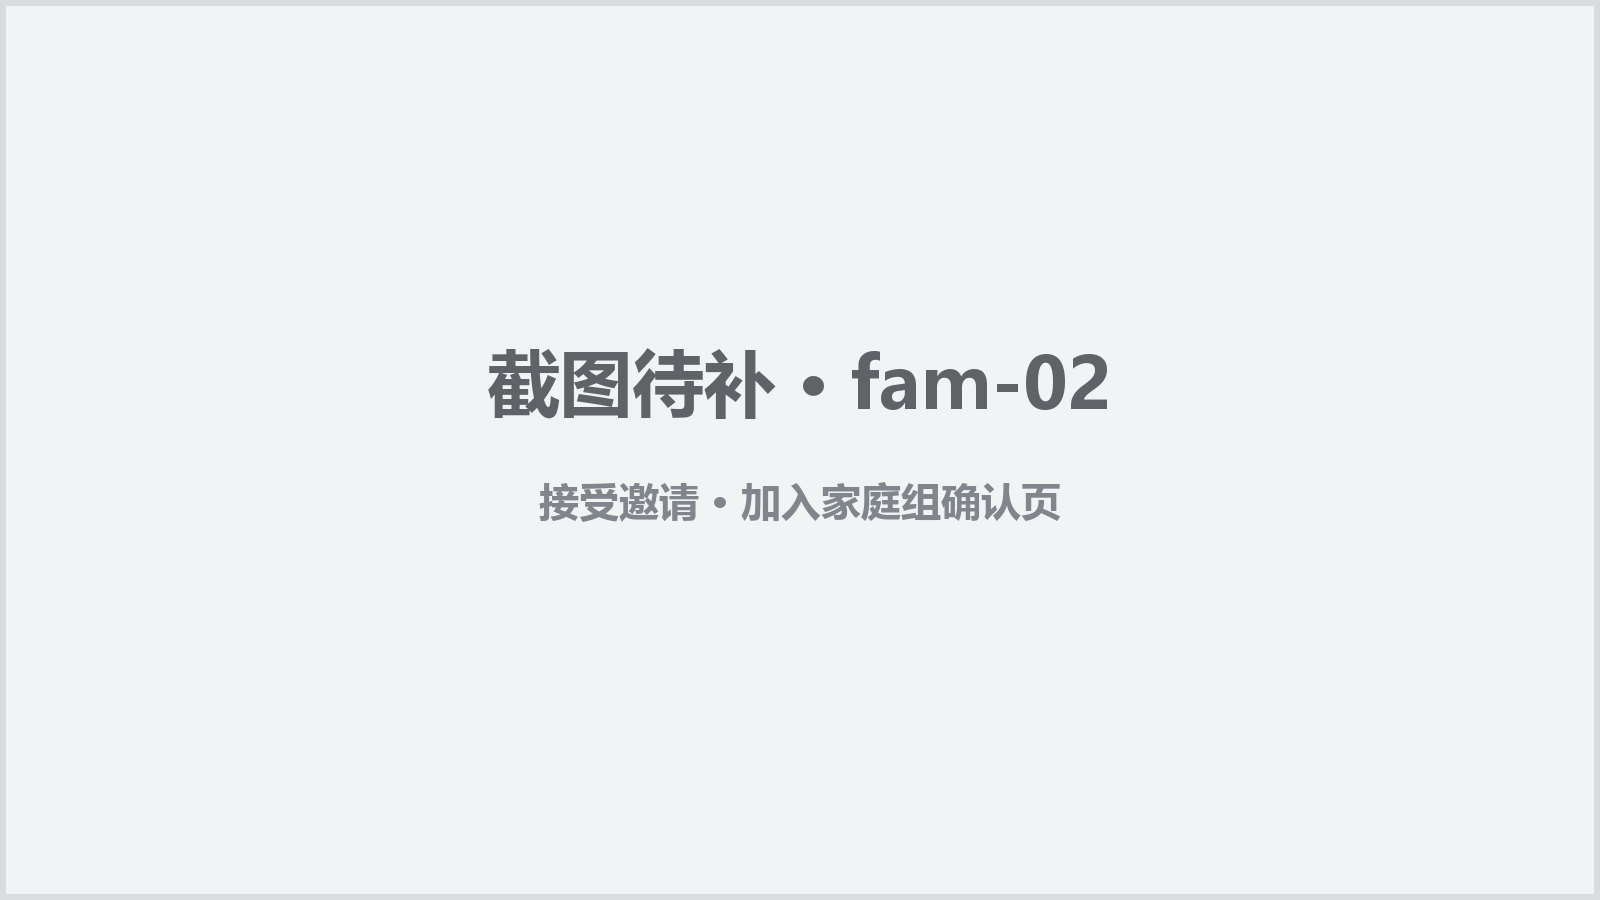
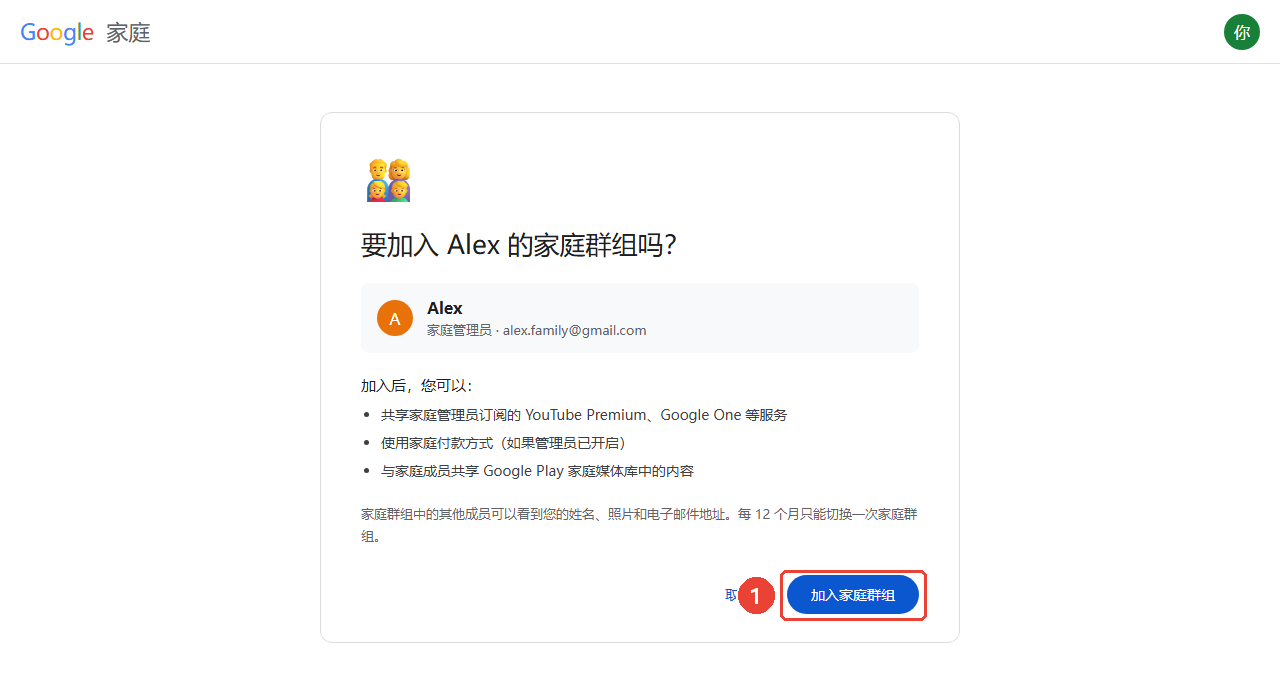
第 4 节和准备工作配上示意图（HTML 渲染）

diff --git a/scripts/mockups/fam-01.html b/scripts/mockups/fam-01.html
@@ -1,0 +1,43 @@
+<!doctype html>
+<html lang="zh-CN"><head><meta charset="utf-8"><link rel="stylesheet" href="base.css">
+<style>
+body { background: #f6f8fc; }
+.bar { background: #f6f8fc; border: none; }
+.search { width: 720px; height: 46px; border-radius: 24px; background: #e9eef6; margin-left: 90px; display: flex; align-items: center; padding: 0 18px; color: #5f6368; font-size: 15px; }
+.side { position: absolute; top: 64px; left: 0; width: 240px; padding: 8px 12px; }
+.compose { display: inline-block; background: #c2e7ff; padding: 18px 26px; border-radius: 16px; font-size: 14px; font-weight: 500; margin: 0 0 14px 4px; }
+.nav { padding: 6px 16px 6px 26px; border-radius: 0 16px 16px 0; font-size: 14px; height: 32px; line-height: 20px; }
+.nav.on { background: #d3e3fd; font-weight: 700; border-radius: 16px; }
+.main { position: absolute; top: 64px; left: 252px; right: 16px; bottom: 16px; background: #fff; border-radius: 16px; padding: 22px 30px; }
+.subject { font-size: 22px; font-weight: 400; margin: 6px 0 22px 50px; }
+.from { display: flex; gap: 12px; align-items: center; margin-bottom: 26px; }
+.from small { color: #5f6368; font-size: 12px; }
+.card { width: 560px; margin-left: 50px; border: 1px solid #dadce0; border-radius: 8px; padding: 36px 40px; text-align: center; }
+.card .logo { justify-content: center; margin-bottom: 26px; font-size: 24px; }
+.card h2 { font-size: 22px; font-weight: 400; margin: 18px 0 12px; }
+.card p { font-size: 14px; line-height: 1.7; color: #3c4043; }
+.card .btn { margin: 26px 0 18px; padding: 11px 34px; border-radius: 4px; background: #1a73e8; }
+</style></head><body>
+<div class="bar"><div class="logo">☰&nbsp;&nbsp;<span style="color:#ea4335;font-size:26px">✉</span><b style="color:#5f6368">Gmail</b></div><div class="search">🔍&nbsp;&nbsp;搜索邮件</div><div class="spacer"></div><span class="avatar a3">你</span></div>
+<div class="side">
+  <div class="compose">✏&nbsp;&nbsp;写邮件</div>
+  <div class="nav on">📥&nbsp;&nbsp;收件箱</div>
+  <div class="nav">⭐&nbsp;&nbsp;已加星标</div>
+  <div class="nav">🕒&nbsp;&nbsp;已延后</div>
+  <div class="nav">➤&nbsp;&nbsp;已发送</div>
+  <div class="nav">📄&nbsp;&nbsp;草稿</div>
+  <div class="nav">⚠&nbsp;&nbsp;垃圾邮件</div>
+</div>
+<div class="main">
+  <div class="subject">Alex 邀请您加入其 Google 家庭群组</div>
+  <div class="from"><span class="avatar a1">G</span><div><b>Google</b> <small>&lt;families-noreply@google.com&gt;</small><br><small>发送至 我</small></div></div>
+  <div class="card">
+    <div class="logo"><b><span class="g1">G</span><span class="g2">o</span><span class="g3">o</span><span class="g1">g</span><span class="g4">l</span><span class="g2">e</span></b></div>
+    <span class="avatar a2" style="width:64px;height:64px;font-size:28px">A</span>
+    <h2>Alex 邀请您加入其家庭群组</h2>
+    <p>Alex（alex.family@gmail.com）邀请您加入其 Google 家庭群组。<br>加入后，您可以与家庭成员共享 Google 服务。</p>
+    <span class="btn btn-primary">接受邀请</span>
+    <p class="muted" style="font-size:12px">此邀请将在 14 天后过期。</p>
+  </div>
+</div>
+</body></html>

diff --git a/scripts/mockups/fam-02.html b/scripts/mockups/fam-02.html
@@ -1,0 +1,25 @@
+<!doctype html>
+<html lang="zh-CN"><head><meta charset="utf-8"><link rel="stylesheet" href="base.css">
+<style>
+.wrap { width: 640px; margin: 48px auto 0; border: 1px solid #dadce0; border-radius: 12px; padding: 36px 40px 28px; }
+h1 { font-size: 26px; font-weight: 400; margin: 18px 0 10px; }
+.who { display: flex; gap: 14px; align-items: center; margin: 22px 0; padding: 14px 16px; background: #f8f9fa; border-radius: 8px; }
+ul { margin: 6px 0 0 20px; font-size: 14px; line-height: 2; color: #3c4043; }
+.note { font-size: 13px; color: #5f6368; line-height: 1.7; margin-top: 18px; }
+.actions { display: flex; justify-content: flex-end; gap: 10px; margin-top: 28px; }
+</style></head><body>
+<div class="bar"><div class="logo"><b><span class="g1">G</span><span class="g2">o</span><span class="g3">o</span><span class="g1">g</span><span class="g4">l</span><span class="g2">e</span></b>&nbsp;家庭</div><div class="spacer"></div><span class="avatar a3">你</span></div>
+<div class="wrap">
+  <div style="font-size:44px">👨👩👧👦</div>
+  <h1>要加入 Alex 的家庭群组吗？</h1>
+  <div class="who"><span class="avatar a2">A</span><div><b>Alex</b><br><span class="muted" style="font-size:13px">家庭管理员 · alex.family@gmail.com</span></div></div>
+  <div style="font-size:15px;font-weight:500">加入后，您可以：</div>
+  <ul>
+    <li>共享家庭管理员订阅的 YouTube Premium、Google One 等服务</li>
+    <li>使用家庭付款方式（如果管理员已开启）</li>
+    <li>与家庭成员共享 Google Play 家庭媒体库中的内容</li>
+  </ul>
+  <div class="note">家庭群组中的其他成员可以看到您的姓名、照片和电子邮件地址。每 12 个月只能切换一次家庭群组。</div>
+  <div class="actions"><span class="btn btn-text">取消</span><span class="btn btn-primary">加入家庭群组</span></div>
+</div>
+</body></html>

diff --git a/scripts/mockups/fam-03.html b/scripts/mockups/fam-03.html
@@ -1,0 +1,28 @@
+<!doctype html>
+<html lang="zh-CN"><head><meta charset="utf-8"><link rel="stylesheet" href="base.css">
+<style>
+.wrap { width: 720px; margin: 36px auto 0; }
+h1 { font-size: 28px; font-weight: 400; margin-bottom: 6px; }
+.sub { color: #5f6368; font-size: 14px; margin-bottom: 24px; }
+.list { border: 1px solid #dadce0; border-radius: 12px; overflow: hidden; }
+.row { display: flex; align-items: center; gap: 16px; padding: 16px 20px; border-top: 1px solid #e8eaed; font-size: 15px; }
+.row:first-child { border-top: none; }
+.row small { color: #5f6368; font-size: 13px; }
+.tag { margin-left: auto; font-size: 12px; color: #5f6368; }
+.me { background: #e8f0fe; }
+.links { margin-top: 26px; font-size: 14px; display: flex; gap: 28px; }
+.links a { color: #0b57d0; text-decoration: none; }
+.links a.danger { color: #b3261e; }
+</style></head><body>
+<div class="bar"><div class="logo"><b><span class="g1">G</span><span class="g2">o</span><span class="g3">o</span><span class="g1">g</span><span class="g4">l</span><span class="g2">e</span></b>&nbsp;家庭</div><div class="spacer"></div><span class="avatar a3">你</span></div>
+<div class="wrap">
+  <h1>您的家庭群组</h1>
+  <div class="sub">家庭群组成员：3 人（最多 6 人）</div>
+  <div class="list">
+    <div class="row"><span class="avatar a2">A</span><div>Alex<br><small>alex.family@gmail.com</small></div><span class="tag">家庭管理员</span></div>
+    <div class="row"><span class="avatar a4">M</span><div>Mia<br><small>mia.k@gmail.com</small></div><span class="tag">成员</span></div>
+    <div class="row me"><span class="avatar a3">你</span><div>你（我）<br><small>you@gmail.com</small></div><span class="tag">成员</span></div>
+  </div>
+  <div class="links"><a>家庭共享的服务</a><a>家庭付款方式</a><a class="danger">退出家庭群组</a></div>
+</div>
+</body></html>

diff --git a/scripts/mockups/base.css b/scripts/mockups/base.css
@@ -1,0 +1,14 @@
+/* 示意图通用样式：模仿 Google 网页的 Material 风格 */
+* { box-sizing: border-box; margin: 0; padding: 0; }
+body { width: 1280px; height: 800px; font-family: "Google Sans", Roboto, "Microsoft YaHei", sans-serif; color: #1f1f1f; background: #fff; overflow: hidden; }
+.bar { height: 64px; display: flex; align-items: center; padding: 0 20px; border-bottom: 1px solid #e0e0e0; gap: 14px; }
+.logo { font-size: 22px; color: #5f6368; display: flex; align-items: center; gap: 6px; }
+.logo b { font-weight: 500; letter-spacing: -.5px; }
+.g1 { color: #4285f4; } .g2 { color: #ea4335; } .g3 { color: #fbbc04; } .g4 { color: #34a853; }
+.avatar { width: 36px; height: 36px; border-radius: 50%; display: inline-flex; align-items: center; justify-content: center; color: #fff; font-size: 16px; font-weight: 500; flex: none; }
+.a1 { background: #1a73e8; } .a2 { background: #e8710a; } .a3 { background: #188038; } .a4 { background: #9334e6; }
+.spacer { flex: 1; }
+.btn { display: inline-block; padding: 10px 24px; border-radius: 20px; font-size: 14px; font-weight: 500; }
+.btn-primary { background: #0b57d0; color: #fff; }
+.btn-text { color: #0b57d0; }
+.muted { color: #5f6368; }

diff --git a/scripts/render_mockups.py b/scripts/render_mockups.py
@@ -1,0 +1,44 @@
+"""把 scripts/mockups/*.html 渲染成 raw/<名字>.png（示意图），之后照常用 annotate.py 标注。
+
+用法：python scripts/render_mockups.py
+需要本机装有 Chrome 或 Edge。
+"""
+
+import shutil
+import subprocess
+from pathlib import Path
+
+ROOT = Path(__file__).resolve().parent.parent
+SRC = ROOT / "scripts" / "mockups"
+RAW = ROOT / "raw"
+
+CANDIDATES = [
+    r"C:\Program Files\Google\Chrome\Application\chrome.exe",
+    r"C:\Program Files (x86)\Microsoft\Edge\Application\msedge.exe",
+    shutil.which("google-chrome") or "",
+    shutil.which("chromium") or "",
+]
+
+
+def browser() -> str:
+    for c in CANDIDATES:
+        if c and Path(c).exists():
+            return c
+    raise SystemExit("找不到 Chrome 或 Edge")
+
+
+def main() -> None:
+    exe = browser()
+    RAW.mkdir(exist_ok=True)
+    for html in sorted(SRC.glob("*.html")):
+        out = RAW / f"{html.stem}.png"
+        subprocess.run(
+            [exe, "--headless=new", "--disable-gpu", "--hide-scrollbars",
+             "--window-size=1280,800", f"--screenshot={out}", html.as_uri()],
+            check=True, capture_output=True,
+        )
+        print(f"{html.name} -> {out.relative_to(ROOT)}")
+
+
+if __name__ == "__main__":
+    main()

diff --git a/scripts/annotate.py b/scripts/annotate.py
@@ -17,6 +17,7 @@ annotations.yaml 格式（坐标单位是原图像素，矩形写左上角和右
       nums:   [1, 2, ...]                              # 或者：按顺序给每个框配编号，圆点自动放在框左侧
       blur:   [[x1, y1, x2, y2], ...]                  # 高斯模糊打码
       crop:   [x1, y1, x2, y2]                         # 可选，最后裁剪
+      src:    fam-03                                   # 可选，借用另一张原图
       width:  1600                                     # 可选，输出最大宽度
 """
 
@@ -82,7 +83,7 @@ def draw_arrow(d: ImageDraw.ImageDraw, a, b, w: int) -> None:
 
 
 def annotate(name: str, spec: dict) -> Path:
-    src = find_raw(name)
+    src = find_raw(spec.get("src", name))
     if src is None:
         img = placeholder(name, spec.get("title", ""))
     else:
@@ -130,7 +131,7 @@ def main(argv: list[str]) -> None:
     for name in names:
         spec = specs.get(name) or {}
         dst = annotate(name, spec)
-        state = "已标注" if find_raw(name) else "占位图"
+        state = "已标注" if find_raw(spec.get("src", name)) else "占位图"
         print(f"{name}: {state} -> {dst.relative_to(ROOT)}")
 
 

diff --git a/docs/prepare.md b/docs/prepare.md
@@ -18,9 +18,9 @@
 1. 打开 [families.google.com](https://families.google.com)，登录你的账号。
 2. 看页面显示的内容：
     - 显示"创建家庭群组"之类的入口：说明你**不在**任何家庭组里，直接进入下一节。
-    - 显示一个家庭组和成员列表：说明你**已经在**一个家庭组里，点 <span class="step">1</span> 处的"退出家庭群组"（Leave family group）退出。
+    - 显示一个家庭组和成员列表：说明你**已经在**一个家庭组里，点"退出家庭群组"（Leave family group）<span class="step">1</span>，按提示确认退出。
 
-![families.google.com 显示的家庭组状态](images/prep-01.png){ .shot }
+![示意图：families.google.com 上的"退出家庭群组"](images/prep-01.png){ .shot }
 
 !!! warning "退出前先想清楚"
     Google 规定：**12 个月内只能换一次家庭组**（退出后重新加入原来的家庭组不受限制）。如果你过去 12 个月里刚换过，现在退出后，短时间内可能无法加入新的家庭组。详见 [4. 加入家庭组](family.md#rules)。

diff --git a/raw/说明.md b/raw/说明.md
@@ -11,16 +11,13 @@
 | pay-01 ~ pay-14 | 建立土区支付资料全流程 | ✅ 已标注（pay-11 未使用） |
 | play-01 ~ play-03 | Play 设置里改国家 | ✅ 已标注 |
 | fix-01 ~ fix-03 | 意外处理：关闭其他地区支付资料 | ✅ 已标注 |
+| fam-01 ~ fam-03、prep-01 | 家庭组 | ✅ 示意图（scripts/mockups 渲染） |
 
 ## 待补
 
 | 编号 | 页面 | 停在哪一步 |
 |---|---|---|
 | play-04（可选） | Play 设置底部 | 列表里出现并选中土耳其的样子 |
-| fam-01 | Gmail | 家庭组邀请邮件，能看到"接受邀请"按钮 |
-| fam-02 | 接受邀请后的页面 | 加入家庭组确认页 |
-| fam-03 | families.google.com | 成员列表里已有你自己 |
-| prep-01 | families.google.com | 当前家庭组状态（"未加入"，或"退出家庭组"按钮的位置） |
 | B1 | myaccount.google.com/language | 显示当前语言的"语言"一栏 |
 | B2 | 同上 | 语言选择框里选中"简体中文"，还没点保存 |
 | card-01（可选） | 添加支付方式 | 卡号表单（卡号会打码） |

diff --git a/README.md b/README.md
@@ -10,6 +10,7 @@
 |---|---|
 | `docs/` | 教程正文（Markdown）和标注后的截图 |
 | `raw/` | 原始截图（不上传）、标注说明 `说明.md`、标注坐标 `annotations.yaml` |
+| `scripts/render_mockups.py` | 把 `scripts/mockups/*.html` 示意图渲染成 `raw/*.png` |
 | `scripts/annotate.py` | 读取 `raw/annotations.yaml`，给截图加红框、箭头、编号并打码，输出到 `docs/images/` |
 | `.github/workflows/deploy.yml` | 推送到 `main` 后自动构建网站并发布到 GitHub Pages |
 
